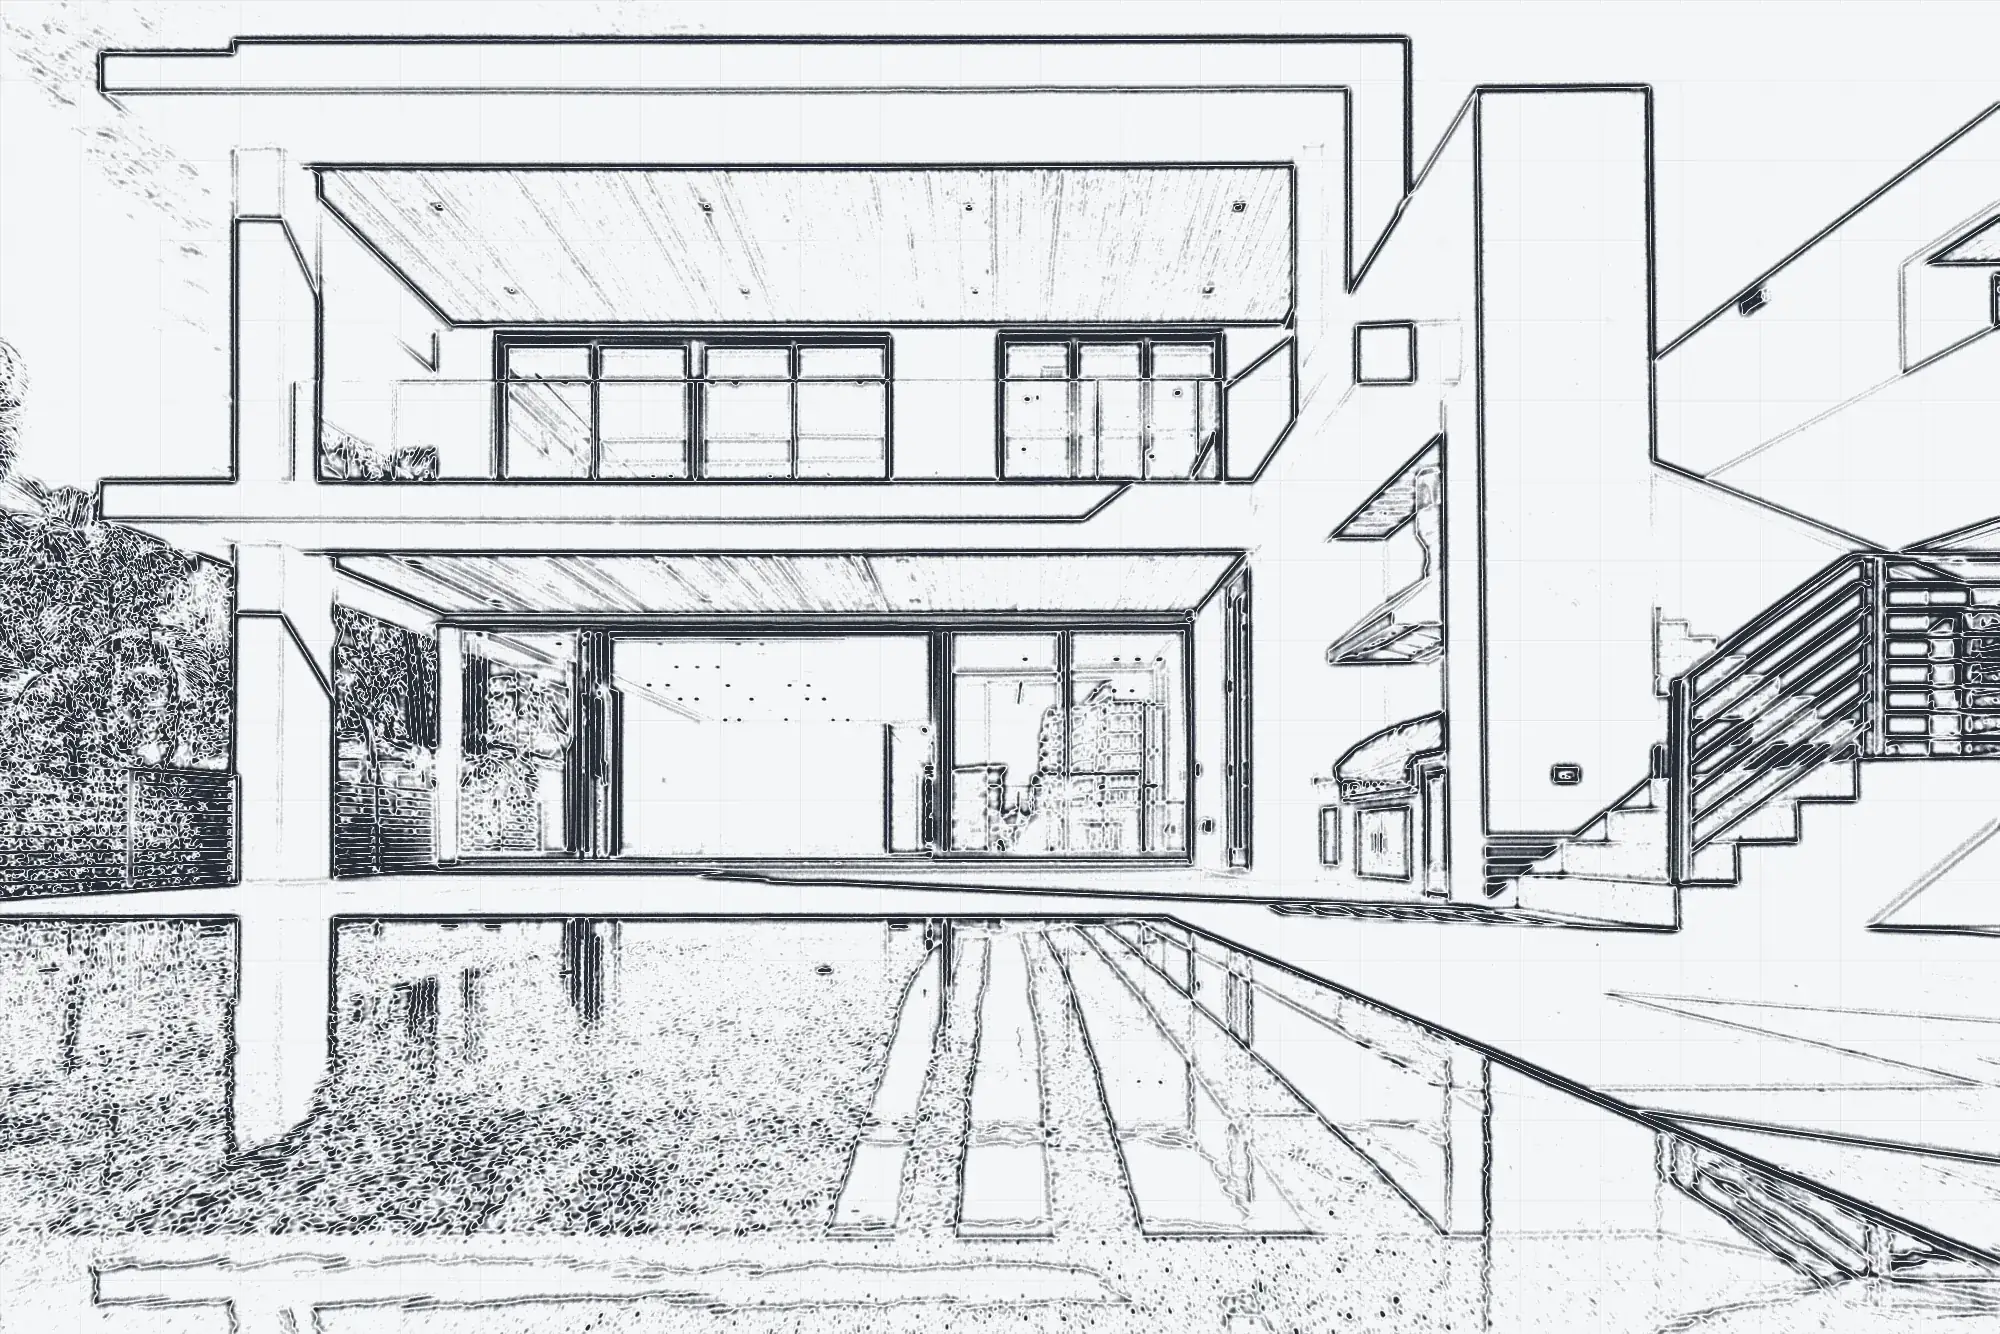
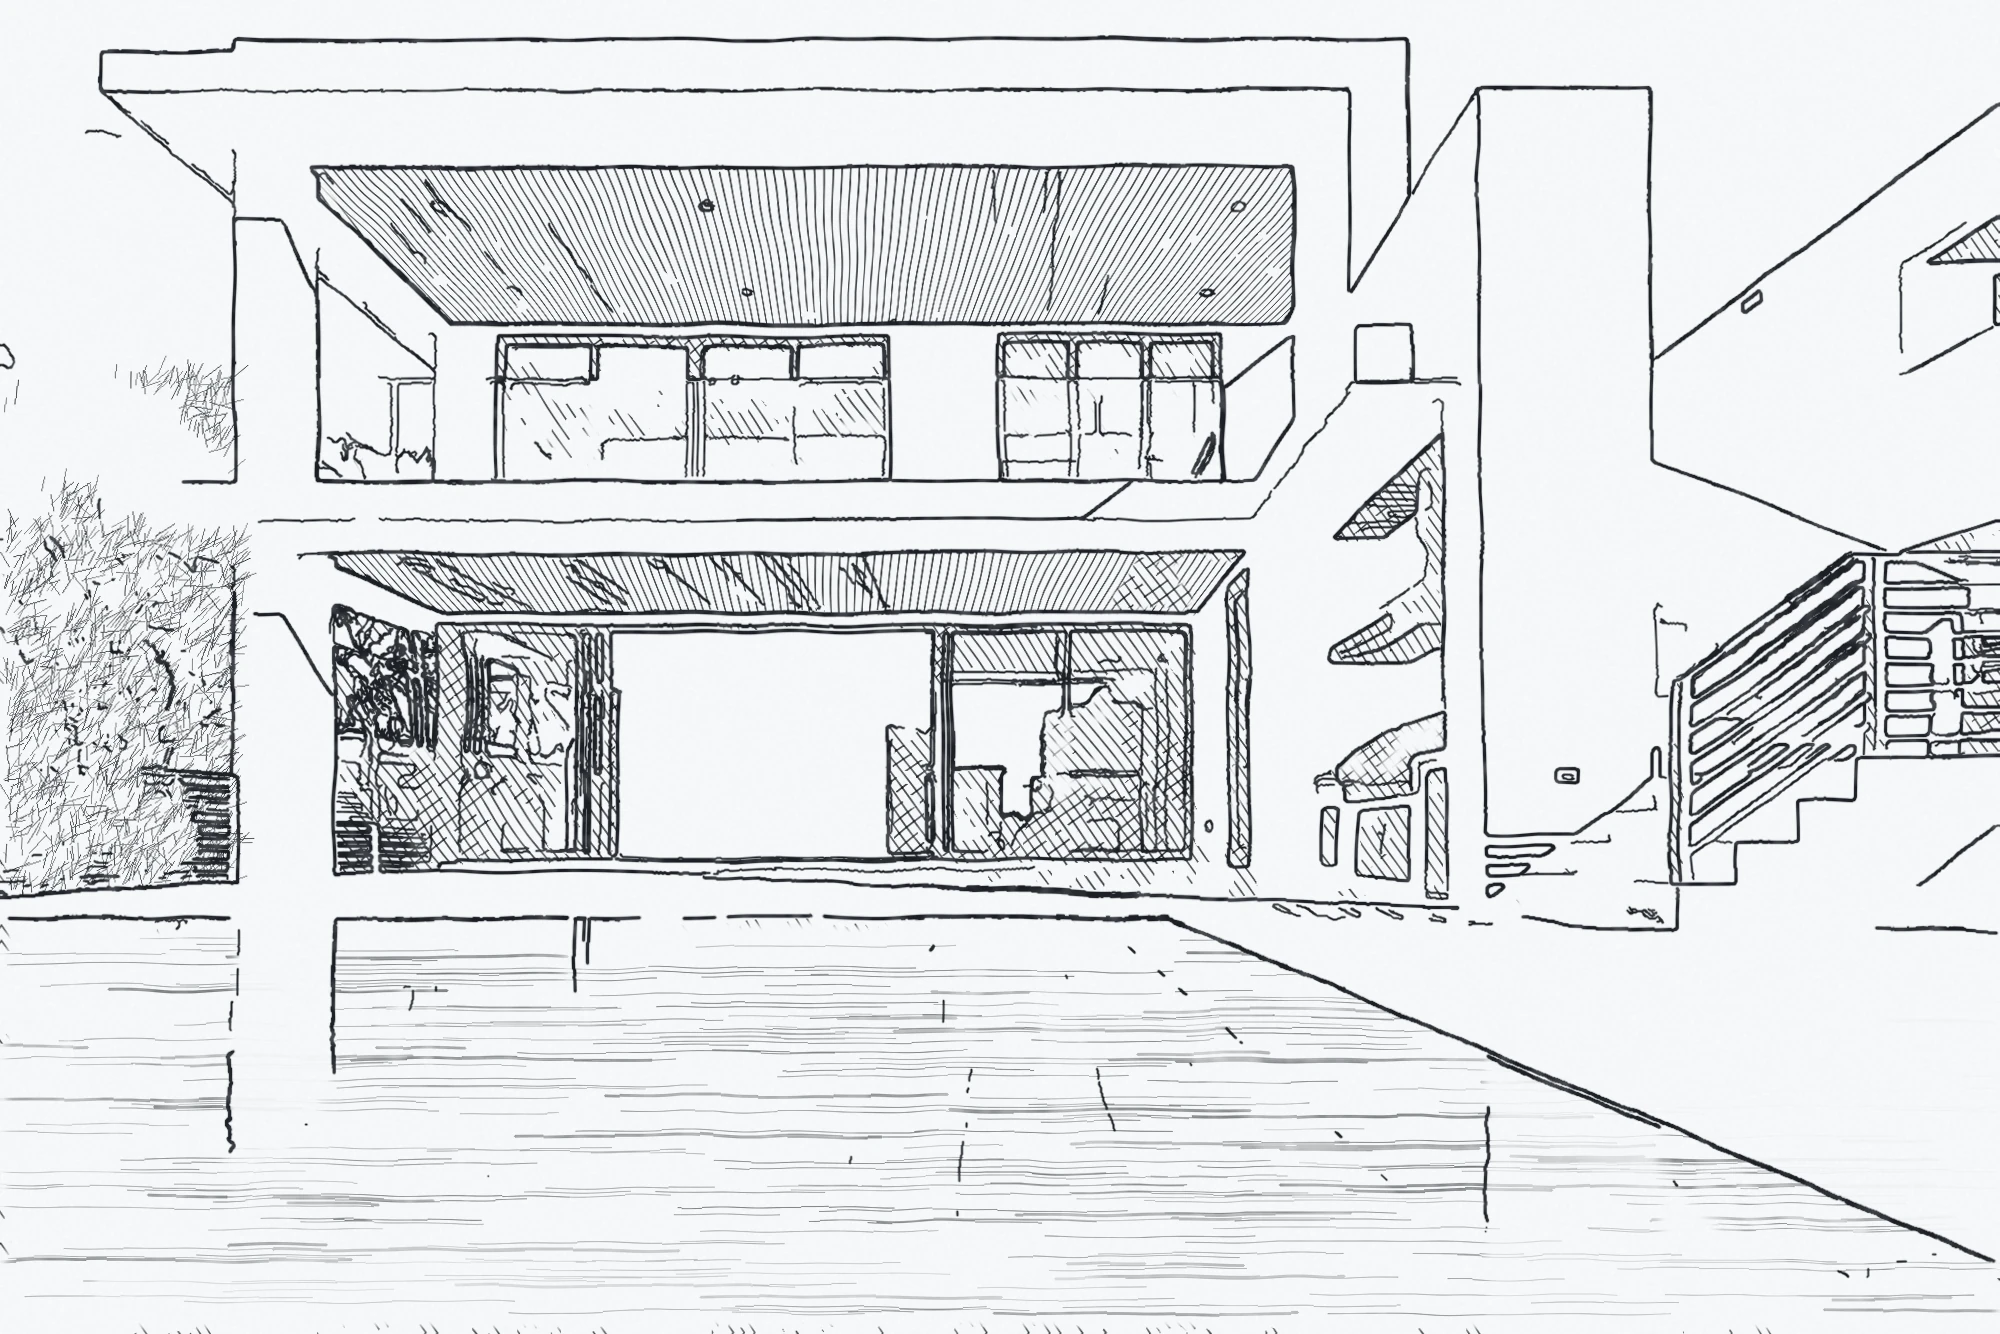
actualiznaso pagina

diff --git a/index.html b/index.html
@@ -276,7 +276,7 @@
 
     <div class="reveal__frame" id="revealFrame">
       <div class="reveal__layer reveal__layer--sketch" id="revealSketch">
-        <img src="img/villa-plano.webp" width="2000" height="1334" loading="lazy" decoding="async"
+        <img src="img/villa-plano.webp?v=2" width="2000" height="1334" loading="lazy" decoding="async"
              alt="Boceto técnico de una residencia moderna con terraza y alberca">
       </div>
       <div class="reveal__layer reveal__layer--color" id="revealColor">
@@ -368,7 +368,7 @@
             <li><svg class="ico" aria-hidden="true"><use href="#i-check"/></svg>Obra nueva, ampliaciones y remodelaciones</li>
             <li><svg class="ico" aria-hidden="true"><use href="#i-check"/></svg>Presupuesto detallado y calendario de obra</li>
             <li><svg class="ico" aria-hidden="true"><use href="#i-check"/></svg>Supervisión técnica en cada etapa</li>
-            <li><svg class="ico" aria-hidden="true"><use href="#i-check"/></svg>Entrega con revisión final contigo</li>
+            <li><svg class="ico" aria-hidden="true"><use href="#i-check"/></svg>Mantenimiento general residencial</li>
           </ul>
         </div>
       </div>
@@ -538,7 +538,7 @@
 <section class="band" aria-labelledby="band-title">
   <div class="band__art" aria-hidden="true"><span class="band__tri"></span></div>
   <div class="container band__inner">
-    <h2 id="band-title" data-split>Si ya lo imaginas, ya podemos dibujarlo.</h2>
+    <h2 id="band-title" data-split>Ya lo imaginas, podemos hacerlo real.</h2>
     <div class="band__side" data-reveal>
       <p>Cuéntanos tu idea y te decimos cómo hacerla realidad.</p>
       <a class="btn btn--ink btn--lg" href="#contacto" data-wa="Hola Alkimia Estudio, quiero que dibujen mi idea." data-magnetic>
